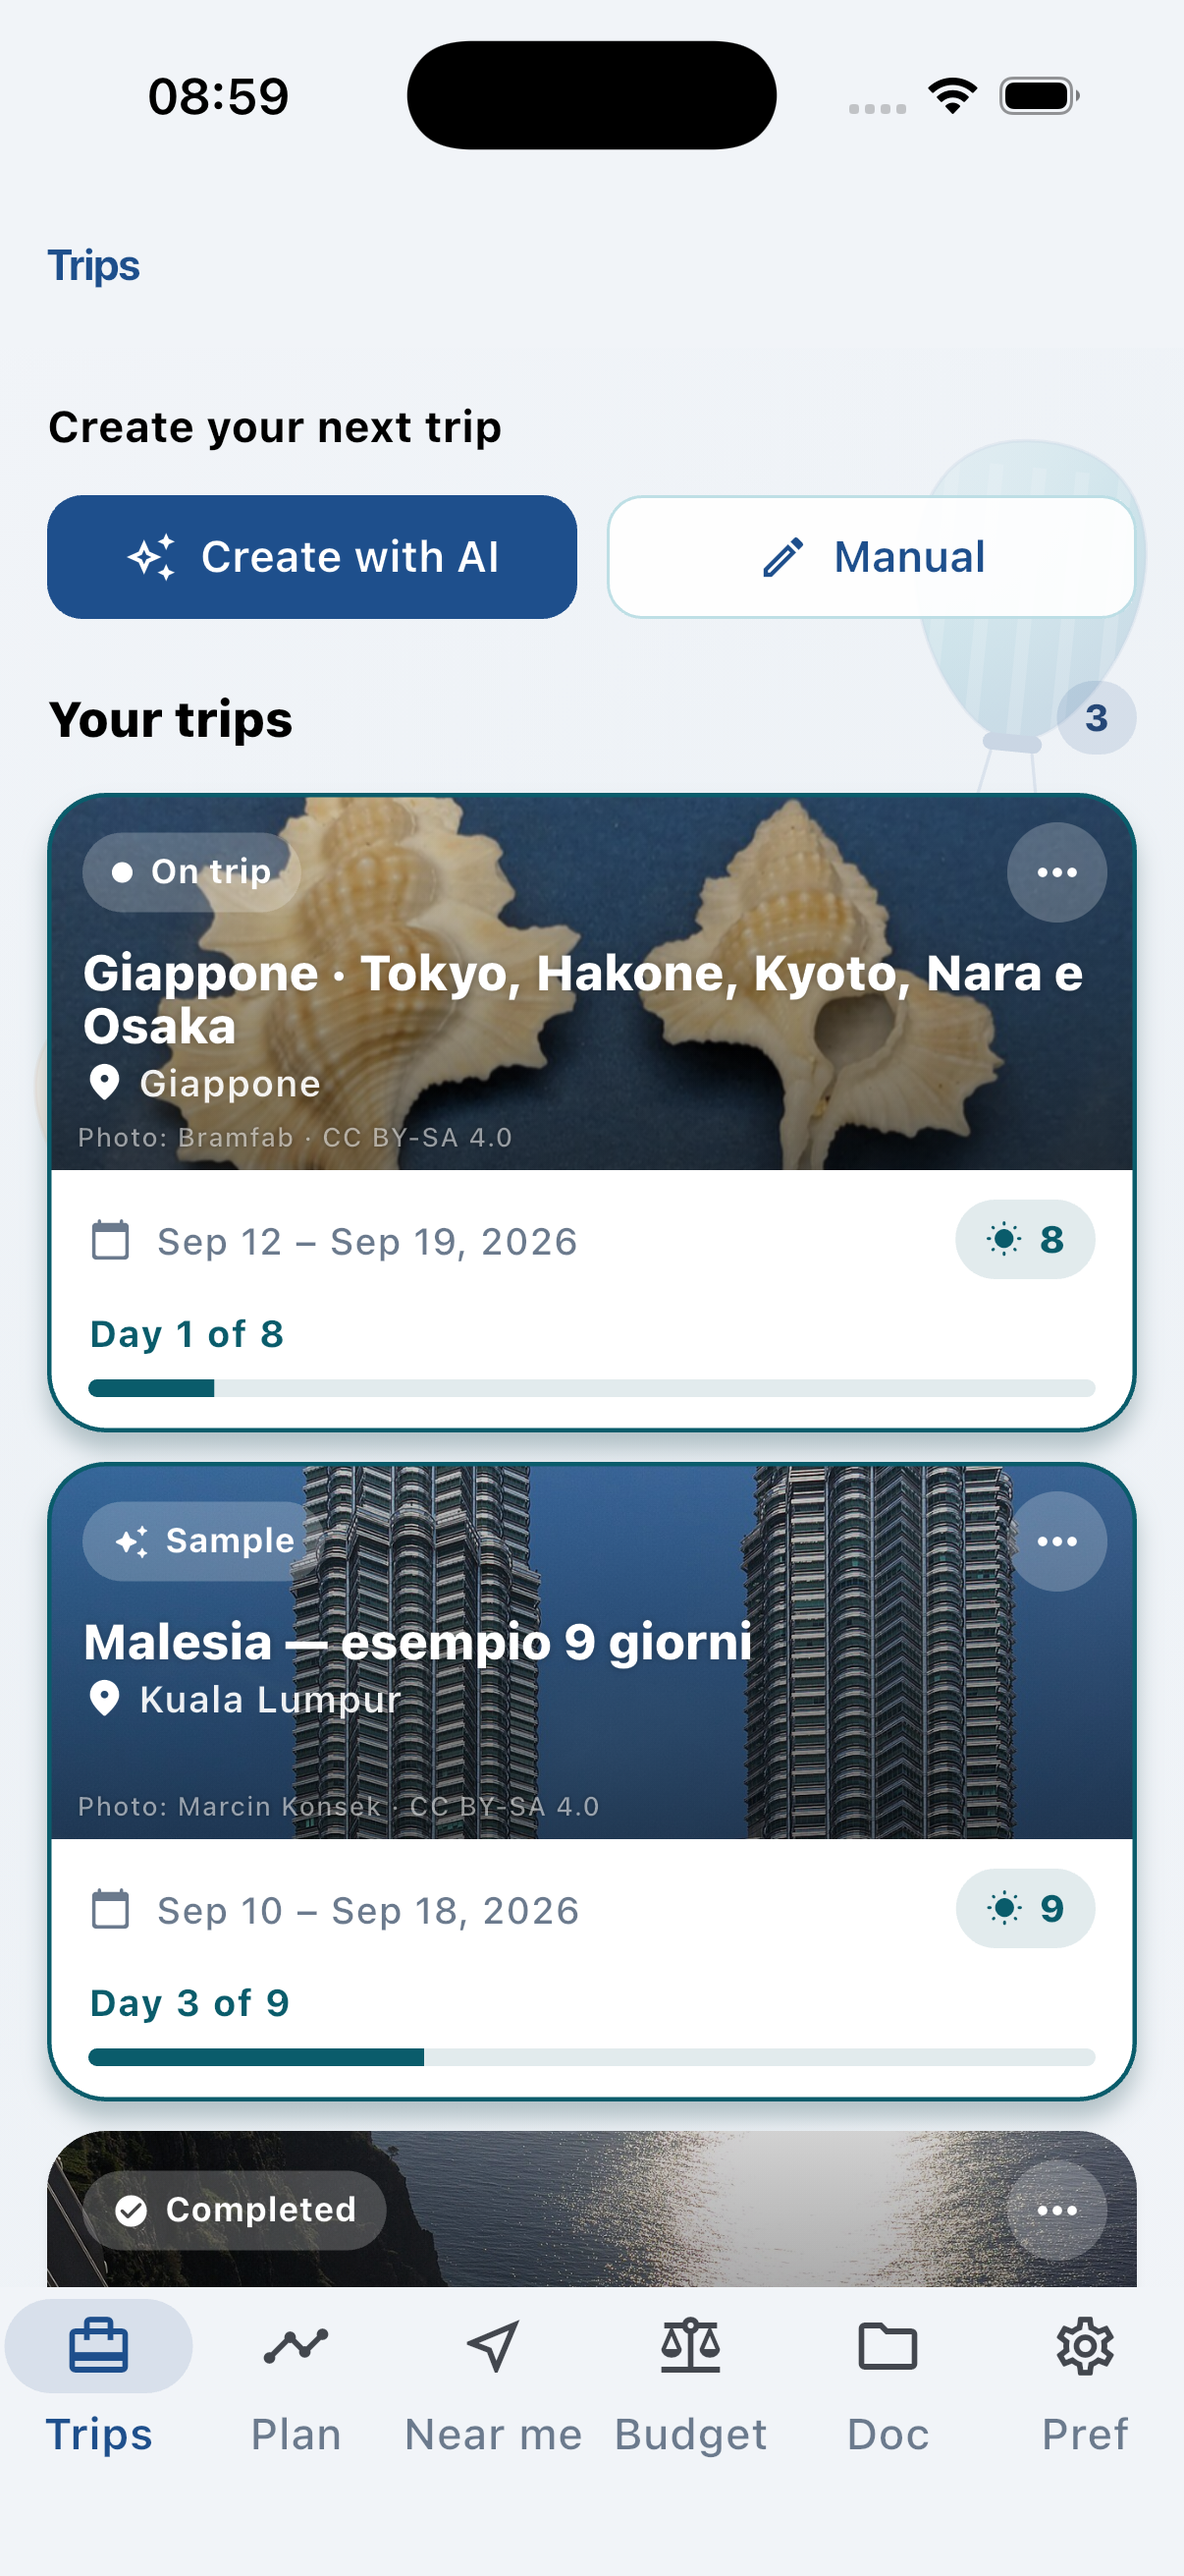
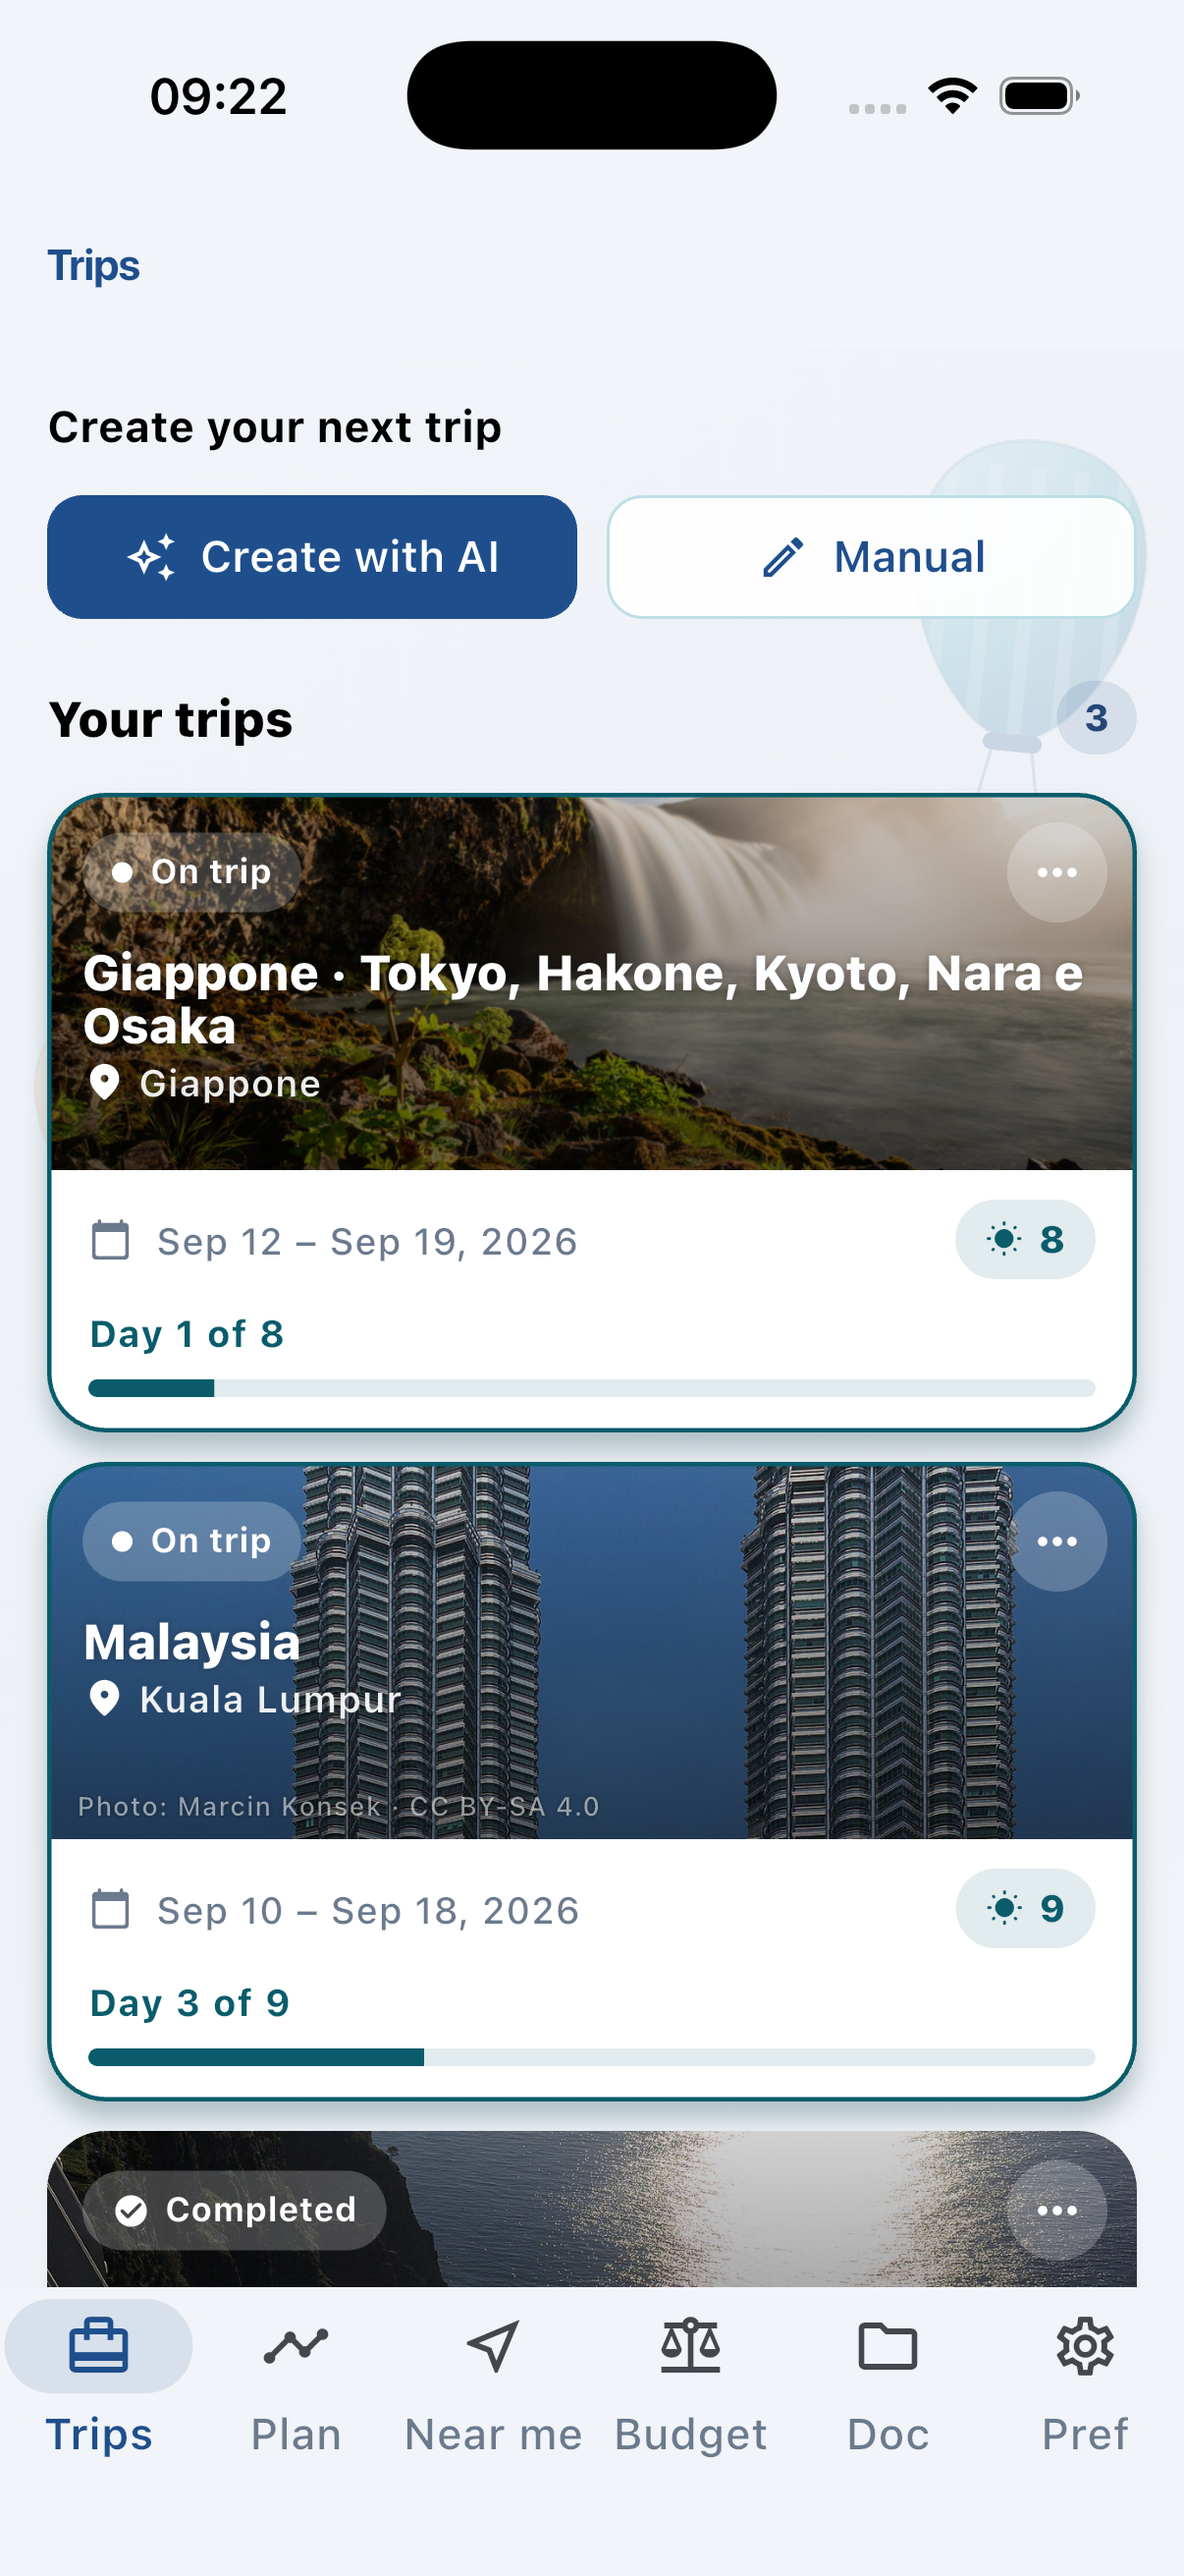
Refresh trip and document screenshots and add the day map view.

Changed region(s): [[0.0307, 0.3089, 0.9818, 0.4634], [0.092, 0.587, 0.6443, 0.6487], [0.1227, 0.0309, 0.2454, 0.0618]]

diff --git a/en/screenshots/index.html b/en/screenshots/index.html
@@ -15,7 +15,7 @@
   <link rel="preconnect" href="https://fonts.gstatic.com" crossorigin>
   <link href="https://fonts.googleapis.com/css2?family=Noto+Sans:wght@400;600;700&display=swap" rel="stylesheet">
   <link rel="stylesheet" href="/styles.css?v=8">
-  <script defer src="/site.js?v=11"></script>
+  <script defer src="/site.js?v=14"></script>
 </head>
 <body class="screenshots-page">
   <header class="site-header">
@@ -49,6 +49,7 @@
       <nav class="shots-jump" aria-label="Sezioni schermate">
         <a href="#trips" data-i18n="shotNavTrips">Viaggi</a>
         <a href="#plan" data-i18n="shotNavPlan">Pianificazione</a>
+        <a href="#map" data-i18n="shotNavMap">Mappa</a>
         <a href="#sharing" data-i18n="shotNavSharing">Gruppo</a>
         <a href="#budget" data-i18n="shotNavBudget">Spese</a>
         <a href="#documents" data-i18n="shotNavDocuments">Documenti</a>
@@ -57,13 +58,13 @@
       </nav>
       <div class="shots-fan" aria-hidden="true">
         <div class="phone phone--left phone--hires">
-          <div class="phone-bezel"><div class="phone-screen"><img src="/assets/screenshots/01-trips-1206.png?v=4" alt="" width="1206" height="2622" loading="eager" decoding="async"></div></div>
+          <div class="phone-bezel"><div class="phone-screen"><img src="/assets/screenshots/01-trips-1206.png?v=5" alt="" width="1206" height="2622" loading="eager" decoding="async"></div></div>
         </div>
         <div class="phone phone--center phone--hires">
           <div class="phone-bezel"><div class="phone-screen"><img src="/assets/screenshots/02-plan-1206.png?v=4" alt="" width="1206" height="2622" loading="eager" decoding="async"></div></div>
         </div>
         <div class="phone phone--right phone--hires">
-          <div class="phone-bezel"><div class="phone-screen"><img src="/assets/screenshots/05-sharing-1206.png" alt="" width="1206" height="2622" loading="eager" decoding="async"></div></div>
+          <div class="phone-bezel"><div class="phone-screen"><img src="/assets/screenshots/08-plan-map-1206.png?v=5" alt="" width="1206" height="2622" loading="eager" decoding="async"></div></div>
         </div>
       </div>
     </div>
@@ -78,7 +79,7 @@
       </div>
       <figure class="shot-device">
         <div class="phone phone--xlarge phone--hires">
-          <div class="phone-bezel"><div class="phone-screen"><img src="/assets/screenshots/01-trips-1206.png?v=4" alt="" width="1206" height="2622" data-i18n-alt="shot1Alt" loading="lazy" decoding="async"></div></div>
+          <div class="phone-bezel"><div class="phone-screen"><img src="/assets/screenshots/01-trips-1206.png?v=5" alt="" width="1206" height="2622" data-i18n-alt="shot1Alt" loading="lazy" decoding="async"></div></div>
         </div>
         <figcaption data-i18n="shot1Caption">Lista viaggi</figcaption>
       </figure>
@@ -98,9 +99,23 @@
       </figure>
     </article>
 
-    <article class="shot-row" id="sharing">
+    <article class="shot-row" id="map">
       <div class="shot-copy">
         <span class="shot-num">03</span>
+        <h2 data-i18n="shotMapTitle">Mappa e spostamenti del giorno</h2>
+        <p data-i18n="shotMapBody">Percorso del giorno sulla mappa, tappe numerate e timeline sotto. Scorri le attività e la vista segue il viaggio.</p>
+      </div>
+      <figure class="shot-device">
+        <div class="phone phone--xlarge phone--hires">
+          <div class="phone-bezel"><div class="phone-screen"><img src="/assets/screenshots/08-plan-map-1206.png?v=5" alt="" width="1206" height="2622" data-i18n-alt="shotMapAlt" loading="lazy" decoding="async"></div></div>
+        </div>
+        <figcaption data-i18n="shotMapCaption">Mappa e itinerario</figcaption>
+      </figure>
+    </article>
+
+    <article class="shot-row shot-row--reverse" id="sharing">
+      <div class="shot-copy">
+        <span class="shot-num">04</span>
         <h2 data-i18n="shot3Title">Viaggia in gruppo</h2>
         <p data-i18n="shot3Body">Condividi il viaggio via iCloud: fino a 4 invitati con Plus (2 editor) o fino a 9 con Max. Tutti vedono lo stesso piano, aggiornato in tempo reale.</p>
       </div>
@@ -112,9 +127,9 @@
       </figure>
     </article>
 
-    <article class="shot-row shot-row--reverse" id="budget">
+    <article class="shot-row" id="budget">
       <div class="shot-copy">
-        <span class="shot-num">04</span>
+        <span class="shot-num">05</span>
         <h2 data-i18n="shot4Title">Spese divise in gruppo</h2>
         <p data-i18n="shot4Body">Registra chi ha pagato cosa e chi deve a chi. Bilanci, saldi e rimborsi restano nel viaggio — niente più fogli Excel in vacanza.</p>
       </div>
@@ -126,23 +141,23 @@
       </figure>
     </article>
 
-    <article class="shot-row" id="documents">
+    <article class="shot-row shot-row--reverse" id="documents">
       <div class="shot-copy">
-        <span class="shot-num">05</span>
+        <span class="shot-num">06</span>
         <h2 data-i18n="shot5Title">Documenti e PDF</h2>
         <p data-i18n="shot5Body">Biglietti, prenotazioni e report PDF del viaggio. Importa da share sheet o fotocamera e tieni tutto accanto al programma.</p>
       </div>
       <figure class="shot-device">
         <div class="phone phone--xlarge phone--hires">
-          <div class="phone-bezel"><div class="phone-screen"><img src="/assets/screenshots/06-documents-1206.png?v=4" alt="" width="1206" height="2622" data-i18n-alt="shot5Alt" loading="lazy" decoding="async"></div></div>
+          <div class="phone-bezel"><div class="phone-screen"><img src="/assets/screenshots/06-documents-1206.png?v=5" alt="" width="1206" height="2622" data-i18n-alt="shot5Alt" loading="lazy" decoding="async"></div></div>
         </div>
         <figcaption data-i18n="shot5Caption">Documenti e biglietti</figcaption>
       </figure>
     </article>
 
-    <article class="shot-row shot-row--reverse" id="ai">
+    <article class="shot-row" id="ai">
       <div class="shot-copy">
-        <span class="shot-num">06</span>
+        <span class="shot-num">07</span>
         <h2 data-i18n="shot6Title">Crea con AI</h2>
         <p data-i18n="shot6Body">Genera un itinerario con la tua AI, importa il file JSON in Waynex e personalizzalo con il tuo gruppo. Disponibile con Plus e Max.</p>
       </div>
@@ -156,7 +171,7 @@
 
     <section class="watch-showcase" id="watch">
       <div class="watch-showcase-copy">
-        <span class="shot-num">07</span>
+        <span class="shot-num">08</span>
         <h2 data-i18n="watchTitle">Apple Watch: programma e checklist al polso</h2>
         <p data-i18n="watchBody">Timeline del giorno, attività in evidenza e checklist sincronizzata con iPhone. Ideale in movimento — richiede Waynex Plus o Max.</p>
         <ul class="watch-points">

diff --git a/screenshots/index.html b/screenshots/index.html
@@ -15,7 +15,7 @@
   <link rel="preconnect" href="https://fonts.gstatic.com" crossorigin>
   <link href="https://fonts.googleapis.com/css2?family=Noto+Sans:wght@400;600;700&display=swap" rel="stylesheet">
   <link rel="stylesheet" href="/styles.css?v=8">
-  <script defer src="/site.js?v=11"></script>
+  <script defer src="/site.js?v=14"></script>
 </head>
 <body class="screenshots-page">
   <header class="site-header">
@@ -49,6 +49,7 @@
       <nav class="shots-jump" aria-label="Sezioni schermate">
         <a href="#trips" data-i18n="shotNavTrips">Viaggi</a>
         <a href="#plan" data-i18n="shotNavPlan">Pianificazione</a>
+        <a href="#map" data-i18n="shotNavMap">Mappa</a>
         <a href="#sharing" data-i18n="shotNavSharing">Gruppo</a>
         <a href="#budget" data-i18n="shotNavBudget">Spese</a>
         <a href="#documents" data-i18n="shotNavDocuments">Documenti</a>
@@ -57,13 +58,13 @@
       </nav>
       <div class="shots-fan" aria-hidden="true">
         <div class="phone phone--left phone--hires">
-          <div class="phone-bezel"><div class="phone-screen"><img src="/assets/screenshots/01-trips-1206.png?v=4" alt="" width="1206" height="2622" loading="eager" decoding="async"></div></div>
+          <div class="phone-bezel"><div class="phone-screen"><img src="/assets/screenshots/01-trips-1206.png?v=5" alt="" width="1206" height="2622" loading="eager" decoding="async"></div></div>
         </div>
         <div class="phone phone--center phone--hires">
           <div class="phone-bezel"><div class="phone-screen"><img src="/assets/screenshots/02-plan-1206.png?v=4" alt="" width="1206" height="2622" loading="eager" decoding="async"></div></div>
         </div>
         <div class="phone phone--right phone--hires">
-          <div class="phone-bezel"><div class="phone-screen"><img src="/assets/screenshots/05-sharing-1206.png" alt="" width="1206" height="2622" loading="eager" decoding="async"></div></div>
+          <div class="phone-bezel"><div class="phone-screen"><img src="/assets/screenshots/08-plan-map-1206.png?v=5" alt="" width="1206" height="2622" loading="eager" decoding="async"></div></div>
         </div>
       </div>
     </div>
@@ -78,7 +79,7 @@
       </div>
       <figure class="shot-device">
         <div class="phone phone--xlarge phone--hires">
-          <div class="phone-bezel"><div class="phone-screen"><img src="/assets/screenshots/01-trips-1206.png?v=4" alt="" width="1206" height="2622" data-i18n-alt="shot1Alt" loading="lazy" decoding="async"></div></div>
+          <div class="phone-bezel"><div class="phone-screen"><img src="/assets/screenshots/01-trips-1206.png?v=5" alt="" width="1206" height="2622" data-i18n-alt="shot1Alt" loading="lazy" decoding="async"></div></div>
         </div>
         <figcaption data-i18n="shot1Caption">Lista viaggi</figcaption>
       </figure>
@@ -98,9 +99,23 @@
       </figure>
     </article>
 
-    <article class="shot-row" id="sharing">
+    <article class="shot-row" id="map">
       <div class="shot-copy">
         <span class="shot-num">03</span>
+        <h2 data-i18n="shotMapTitle">Mappa e spostamenti del giorno</h2>
+        <p data-i18n="shotMapBody">Percorso del giorno sulla mappa, tappe numerate e timeline sotto. Scorri le attività e la vista segue il viaggio.</p>
+      </div>
+      <figure class="shot-device">
+        <div class="phone phone--xlarge phone--hires">
+          <div class="phone-bezel"><div class="phone-screen"><img src="/assets/screenshots/08-plan-map-1206.png?v=5" alt="" width="1206" height="2622" data-i18n-alt="shotMapAlt" loading="lazy" decoding="async"></div></div>
+        </div>
+        <figcaption data-i18n="shotMapCaption">Mappa e itinerario</figcaption>
+      </figure>
+    </article>
+
+    <article class="shot-row shot-row--reverse" id="sharing">
+      <div class="shot-copy">
+        <span class="shot-num">04</span>
         <h2 data-i18n="shot3Title">Viaggia in gruppo</h2>
         <p data-i18n="shot3Body">Condividi il viaggio via iCloud: fino a 4 invitati con Plus (2 editor) o fino a 9 con Max. Tutti vedono lo stesso piano, aggiornato in tempo reale.</p>
       </div>
@@ -112,9 +127,9 @@
       </figure>
     </article>
 
-    <article class="shot-row shot-row--reverse" id="budget">
+    <article class="shot-row" id="budget">
       <div class="shot-copy">
-        <span class="shot-num">04</span>
+        <span class="shot-num">05</span>
         <h2 data-i18n="shot4Title">Spese divise in gruppo</h2>
         <p data-i18n="shot4Body">Registra chi ha pagato cosa e chi deve a chi. Bilanci, saldi e rimborsi restano nel viaggio — niente più fogli Excel in vacanza.</p>
       </div>
@@ -126,23 +141,23 @@
       </figure>
     </article>
 
-    <article class="shot-row" id="documents">
+    <article class="shot-row shot-row--reverse" id="documents">
       <div class="shot-copy">
-        <span class="shot-num">05</span>
+        <span class="shot-num">06</span>
         <h2 data-i18n="shot5Title">Documenti e PDF</h2>
         <p data-i18n="shot5Body">Biglietti, prenotazioni e report PDF del viaggio. Importa da share sheet o fotocamera e tieni tutto accanto al programma.</p>
       </div>
       <figure class="shot-device">
         <div class="phone phone--xlarge phone--hires">
-          <div class="phone-bezel"><div class="phone-screen"><img src="/assets/screenshots/06-documents-1206.png?v=4" alt="" width="1206" height="2622" data-i18n-alt="shot5Alt" loading="lazy" decoding="async"></div></div>
+          <div class="phone-bezel"><div class="phone-screen"><img src="/assets/screenshots/06-documents-1206.png?v=5" alt="" width="1206" height="2622" data-i18n-alt="shot5Alt" loading="lazy" decoding="async"></div></div>
         </div>
         <figcaption data-i18n="shot5Caption">Documenti e biglietti</figcaption>
       </figure>
     </article>
 
-    <article class="shot-row shot-row--reverse" id="ai">
+    <article class="shot-row" id="ai">
       <div class="shot-copy">
-        <span class="shot-num">06</span>
+        <span class="shot-num">07</span>
         <h2 data-i18n="shot6Title">Crea con AI</h2>
         <p data-i18n="shot6Body">Genera un itinerario con la tua AI, importa il file JSON in Waynex e personalizzalo con il tuo gruppo. Disponibile con Plus e Max.</p>
       </div>
@@ -156,7 +171,7 @@
 
     <section class="watch-showcase" id="watch">
       <div class="watch-showcase-copy">
-        <span class="shot-num">07</span>
+        <span class="shot-num">08</span>
         <h2 data-i18n="watchTitle">Apple Watch: programma e checklist al polso</h2>
         <p data-i18n="watchBody">Timeline del giorno, attività in evidenza e checklist sincronizzata con iPhone. Ideale in movimento — richiede Waynex Plus o Max.</p>
         <ul class="watch-points">

diff --git a/site.js b/site.js
@@ -48,6 +48,7 @@
         'Schermate reali dall’app — viaggi, timeline, spese condivise e programma al polso.',
       shotNavTrips: 'Viaggi',
       shotNavPlan: 'Pianificazione',
+      shotNavMap: 'Mappa',
       shotNavSharing: 'Gruppo',
       shotNavBudget: 'Spese',
       shotNavDocuments: 'Documenti',
@@ -63,6 +64,11 @@
         'Timeline con luoghi, prenotazioni e attività. Scorri i giorni del viaggio, apri la mappa e tieni tutto organizzato prima e durante il trip.',
       shot2Caption: 'Timeline del viaggio',
       shot2Alt: 'Timeline del viaggio Waynex',
+      shotMapTitle: 'Mappa e spostamenti del giorno',
+      shotMapBody:
+        'Percorso del giorno sulla mappa, tappe numerate e timeline sotto. Scorri le attività e la vista segue il viaggio.',
+      shotMapCaption: 'Mappa e itinerario',
+      shotMapAlt: 'Mappa del giorno e timeline Waynex',
       shot3Title: 'Viaggia in gruppo',
       shot3Body:
         'Condividi il viaggio via iCloud: fino a 4 invitati con Plus (2 editor) o fino a 9 con Max. Tutti vedono lo stesso piano, aggiornato in tempo reale.',
@@ -167,6 +173,7 @@
         'Real screenshots from the app — trips, timeline, shared expenses, and your itinerary on your wrist.',
       shotNavTrips: 'Trips',
       shotNavPlan: 'Planning',
+      shotNavMap: 'Map',
       shotNavSharing: 'Group',
       shotNavBudget: 'Expenses',
       shotNavDocuments: 'Documents',
@@ -182,6 +189,11 @@
         'Timeline with places, bookings, and activities. Scroll through trip days, open the map, and stay organized before and during travel.',
       shot2Caption: 'Trip timeline',
       shot2Alt: 'Waynex trip timeline',
+      shotMapTitle: 'Map and the day’s movements',
+      shotMapBody:
+        'See the day’s route on the map, with numbered stops and the timeline underneath. Scroll activities and the view follows the trip.',
+      shotMapCaption: 'Map and itinerary',
+      shotMapAlt: 'Waynex day map and timeline',
       shot3Title: 'Travel as a group',
       shot3Body:
         'Share the trip via iCloud: up to 4 invitees on Plus (2 editors) or up to 9 on Max. Everyone sees the same plan, updated in real time.',
